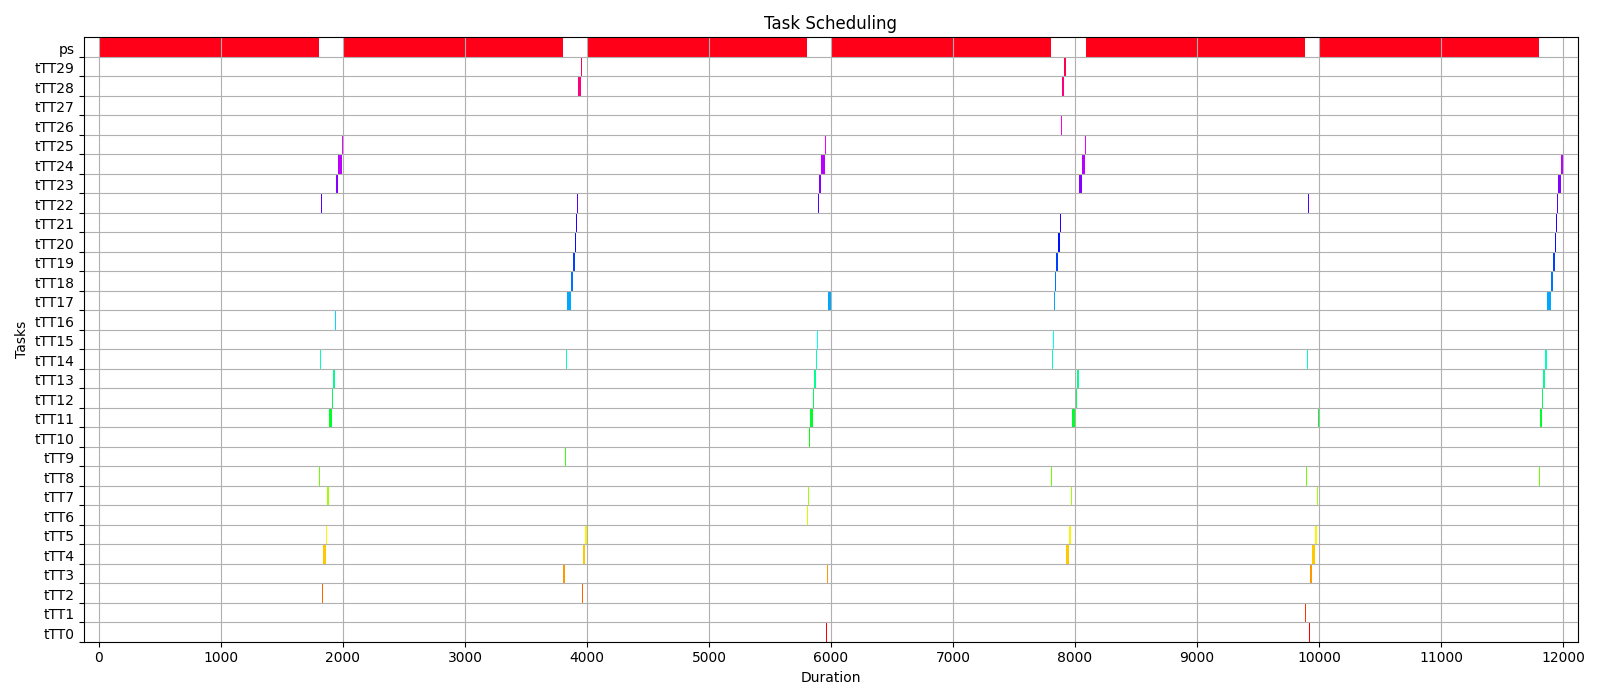
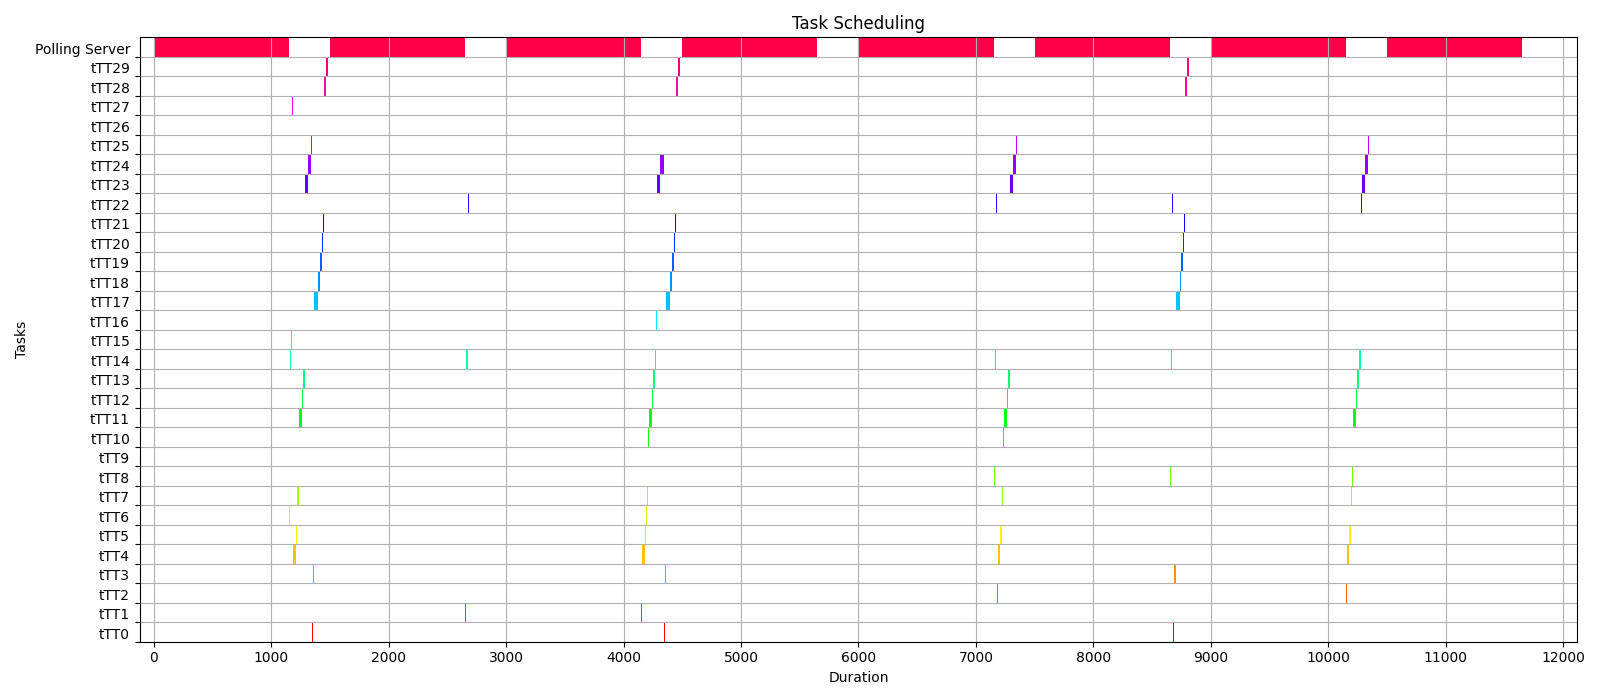
multi ps

diff --git a/libraries/simulationAnealing.py b/libraries/simulationAnealing.py
@@ -21,10 +21,10 @@ logging.getLogger().setLevel(logging.ERROR)  # DEBUG
 
 
 class SimulatedAnnealing:
-    def __init__(self, TTtasks, pollingserver, initialTemp=0.001, finalTemp=0.00001, tempReduction="linear", iterationPerTemp=10, alpha=0.0001, beta=5):
+    def __init__(self, TTtasks, pollingservers, initialTemp=0.001, finalTemp=0.00001, tempReduction="linear", iterationPerTemp=10, alpha=0.0001, beta=5):
         self.TTtasks = TTtasks
 
-        self.solution = pollingserver
+        self.solution = pollingservers
         if not self.isValidNeighbor(self.solution):
             print("Warning: starting from invalid solution")
 
@@ -83,12 +83,12 @@ class SimulatedAnnealing:
                 # get the cost between the two solutions
                 newcost = self.computeCost(newSolution)
 
-                logging.debug("Iter: {}, cost: {:.3f}, new duration: {}, new period: {}, new deadline: {}".format(len(self.datalog["bins"]), newcost, newSolution.duration, newSolution.period, newSolution.deadline))
+                logging.debug("Iter: {}, cost: {:.3f}, new duration: {}, new period: {}, new deadline: {}".format(len(self.datalog["bins"]), newcost, newSolution[0].duration, newSolution[0].period, newSolution[0].deadline))
                 self.datalog["bins"].append(self.datalog["bins"][-1] + 1 if self.datalog["bins"] else 0)
                 self.datalog["costs"].append(newcost)
-                self.datalog["duration"].append(newSolution.duration)
-                self.datalog["period"].append(newSolution.period)
-                self.datalog["deadline"].append(newSolution.deadline)
+                self.datalog["duration"].append(newSolution[0].duration)
+                self.datalog["period"].append(newSolution[0].period)
+                self.datalog["deadline"].append(newSolution[0].deadline)
 
                 # if the new solution is better, accept it
                 if newcost - self.currCost < 0 or self.acceptance(newcost - self.currCost):
@@ -114,7 +114,7 @@ class SimulatedAnnealing:
         plt.show()
 
     def printSolution(self):
-        print(self.solution)
+        print(self.solution[0])
 
     def acceptance(self, cost):
         if cost > 0:
@@ -122,13 +122,17 @@ class SimulatedAnnealing:
             return random.random() < math.exp(-cost / self.currTemp)
         return False
 
-    def computeCost(self, solution, params=["wcrt_tt", "wcrt_et", "duration"], weights=[0.2, 0.4, 0.4]):
+    def computeCost(self, solution, params=["wcrt_tt", "wcrt_et", "duration"], weights=[0.4, 0.4, 0.2]):
         assert sum(weights) == 1.0
 
+        wcrt = []
+        for ps in solution:
+            wcrt = wcrt + EDP(ps)[1]
+
         params_dict = {
-            "wcrt_tt": np.mean(EDF(self.TTtasks + [solution])[1]),
-            "wcrt_et": np.mean(EDP(solution)[1]),
-            "duration": solution.duration,
+            "wcrt_tt": np.mean(EDF(self.TTtasks + solution)[2]),
+            "wcrt_et": np.mean(wcrt),
+            "duration": max([ps.duration for ps in solution]),
         }
         cost = 0
 
@@ -138,10 +142,13 @@ class SimulatedAnnealing:
 
     def neighborOperator(self, center):
         def getrandomneighbor():
-            new_duration = center.duration + random.randint(-10, 10) * 10
-            new_period = self.period_divisors[self.period_divisors.index(center.period) + random.choice([-1, 0, 1])]
-            new_deadline = self.period_divisors[self.period_divisors.index(center.deadline) + random.choice([-1, 0, 1])]
-            return PollingServer(center.name, new_duration, new_period, new_deadline, center.tasks)
+            new_center = []
+            for ps in center:
+                new_duration = ps.duration + random.randint(-10, 10) * 10
+                new_period = self.period_divisors[self.period_divisors.index(ps.period) + random.choice([-1, 0, 1])]
+                new_deadline = self.period_divisors[self.period_divisors.index(ps.deadline) + random.choice([-1, 0, 1])]
+                new_center.append(PollingServer(ps.name, new_duration, new_period, new_deadline, ps.tasks))
+            return new_center
 
         neighbor = getrandomneighbor()
         while not self.isValidNeighbor(neighbor):
@@ -150,9 +157,11 @@ class SimulatedAnnealing:
         return neighbor
 
     def isValidNeighbor(self, neighbor) -> bool:
-        schedulable, __ = EDP(neighbor)
-        sigma, __ = EDF(self.TTtasks + [neighbor])
-        return schedulable and sigma and neighbor.duration <= neighbor.period and neighbor.deadline <= neighbor.period
+        cond = True
+        for ps in neighbor:
+            cond = cond and ps.duration <= ps.period and ps.deadline <= ps.period and EDP(ps)[0]
+        cond = cond and EDF(self.TTtasks + neighbor)[0]
+        return cond
 
 
 if __name__ == "__main__":
@@ -160,18 +169,21 @@ if __name__ == "__main__":
     dl = dataloader.DataLoader(path)
     TT, ET = dl.loadFile()
     #TT, ET = TT, ET[:5]
-    init_ps = PollingServer("Polling Server", 1200, 1500, 1500, ET)
+    init_ps = [PollingServer("Polling Server", 1200, 1500, 1500, ET)]
 
     sa = SimulatedAnnealing(TT, init_ps)
-
+    #import cProfile
+    #with cProfile.Profile() as pr:
     with alive_bar(sa.iterationPerTemp * 10, theme="smooth") as bar:  # progress bar
         sa.run(bar)
+    #pr.print_stats()
 
-    sigma, wcrtNewSolution = EDF(TT + [sa.solution])
-    schedulable, responsetimeNew = EDP(sa.solution)
-    logging.debug(wcrtNewSolution, schedulable, responsetimeNew)
+    schedulable_TT, timetable, wcrt_TT = EDF(TT + sa.solution)
+    schedulable_ET, wcrt_ET = EDP(sa.solution[0])
+
+    print(wcrt_TT, wcrt_ET)
 
     sa.printSolution()
     sa.plotSolution()
 
-    plotTTtask(TT + [sa.solution], sigma)
+    plotTTtask(TT + sa.solution, timetable)

diff --git a/libraries/algorithms.py b/libraries/algorithms.py
@@ -2,6 +2,7 @@ from libraries.tasks import PollingServer
 import libraries.dataloader as dataloader
 from math import lcm, ceil
 import numpy as np
+import multiprocess as mp
 
 
 def EDF2(tasks):
@@ -152,7 +153,8 @@ def EDF(tasks):
                 deadlines[i] = t + task.deadline
            
         if not all(v == 0 for v in durations): #if there is some task to schedule:
-            ed_idx = np.argmin([dl if dr > 0 else 2*T for dl, dr in zip(deadlines, durations)])
+            tmp = [dl if dr > 0 else 2*T for dl, dr in zip(deadlines, durations)]
+            ed_idx = tmp.index(min(tmp))
             timetable[t] = ed_idx
             durations[ed_idx] -= 1
             if durations[ed_idx] == 0 and deadlines[ed_idx] >= t:
@@ -170,16 +172,13 @@ def EDF(tasks):
 def EDP(ps: PollingServer):
     delta = ps.period + ps.deadline - 2 * ps.duration
     alpha = ps.duration / ps.period
-    #print(delta, alpha)
 
     T = lcm(*[obj.period for obj in ps.tasks])
-    #print("T:", T)
     WCRT = [T]*len(ps.tasks)
     schedulable = True
 
     for i, ETtask1 in enumerate(ps.tasks):
         t = 1
-        #print(ETtask1)
         while t <= T:
             supply = max(0, alpha * (t - delta))
             demand = 0
@@ -187,7 +186,6 @@ def EDP(ps: PollingServer):
                 if ETtask2.priority >= ETtask1.priority:
                     demand += ceil(t / ETtask2.period) * ETtask2.duration
 
-            #print("t: {}, supply {}, demand {}".format(t, supply, demand))
             if supply >= demand:
                 WCRT[i] = t
                 break
@@ -197,12 +195,11 @@ def EDP(ps: PollingServer):
             schedulable = False
     return schedulable, WCRT
 
-
 if __name__ == "__main__":
     path = "./test_cases/inf_10_10/taskset__1643188013-a_0.1-b_0.1-n_30-m_20-d_unif-p_2000-q_4000-g_1000-t_5__0__tsk.csv"
     dl = dataloader.DataLoader(path)
     TT, ET = dl.loadFile()
     ps = PollingServer("ps", duration=1800, period=2000, deadline=1000, tasks=ET)
 
-    #print(EDP(ps))
-    print(EDF(TT + [ps]))
+    print(EDP(ps))
+    #print(EDF(TT + [ps]))
